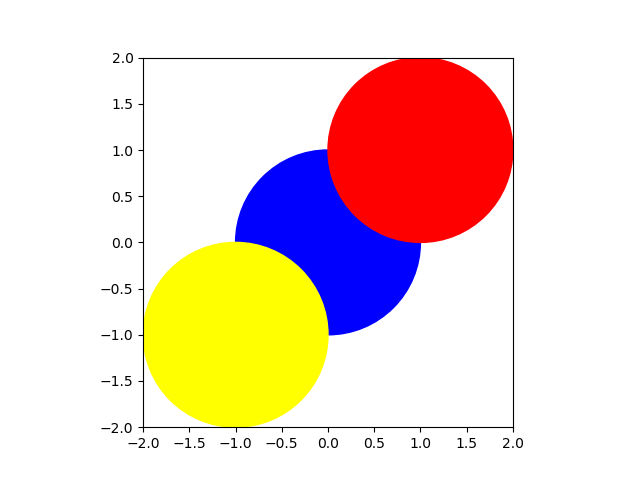
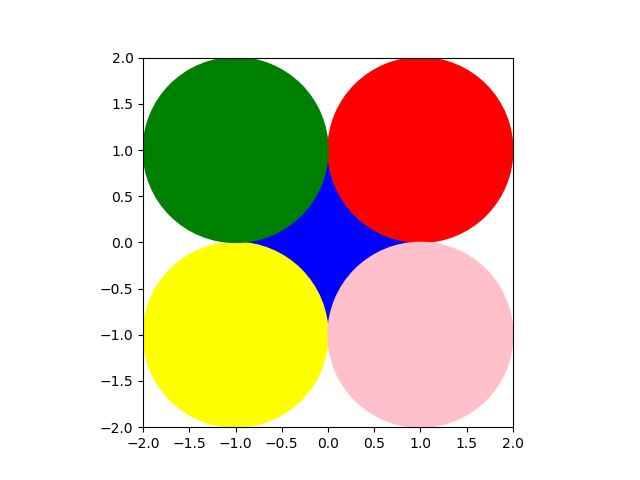
even more circles

Changed region(s): [[0.5, 0.5, 0.8125, 0.9062], [0.2188, 0.125, 0.5312, 0.5312]]

diff --git a/test.py b/test.py
@@ -24,6 +24,8 @@ print("The surface area of the circle is", surface_area(p))
 bluecircle = plt.Circle((0,0), 1, color='blue')
 redcircle = plt.Circle((1,1), 1, color='red')
 yellowcircle = plt.Circle((-1,-1), 1, color='yellow')
+greencircle = plt.Circle((-1,1), 1, color='green')
+pinkcircle = plt.Circle((1,-1), 1, color='pink')
 
 fig, ax = plt.subplots()
 
@@ -33,5 +35,7 @@ ax.set_aspect('equal') #this makes the circle round
 ax.add_artist(bluecircle) #this stackoverflow told me to do..
 ax.add_artist(redcircle)
 ax.add_artist(yellowcircle)
+ax.add_artist(greencircle)
+ax.add_artist(pinkcircle)
 
 fig.savefig('circles.png')
